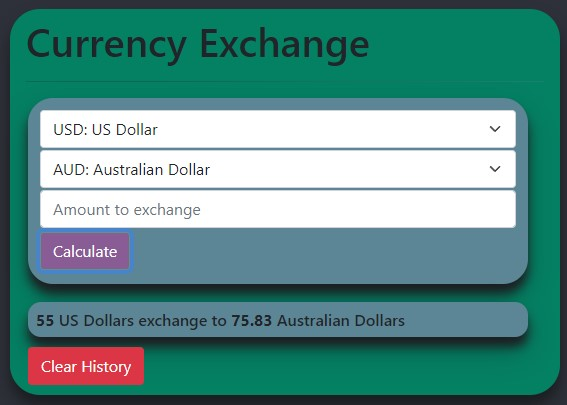
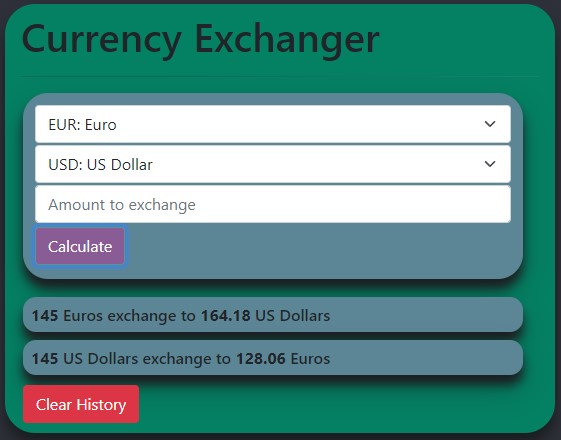
Correct inconsistent use of exchange vs exchanger

diff --git a/src/index.html b/src/index.html
@@ -4,12 +4,12 @@
   <meta charset="UTF-8">
   <meta http-equiv="X-UA-Compatible" content="IE=edge">
   <meta name="viewport" content="width=device-width, initial-scale=1.0">
-  <title>Corgibyte Currency Exchange</title>
+  <title>Corgibyte Currency Exchanger</title>
 </head>
 <body>
   <div class="container">
     <div id="holder">
-      <h1>Currency Exchange</h1>
+      <h1>Currency Exchanger</h1>
       <hr>
       <form id="inputForm">
         <div id="inputs">

diff --git a/README.md b/README.md
@@ -1,6 +1,6 @@
-![Screenshot of Running Website](./src/assets/img/screenshot.jpg)
-
 ## Currency Exchanger
+
+![Screenshot of Running Website](./src/assets/img/screenshot.jpg)
 
 By Hannah Young
 
